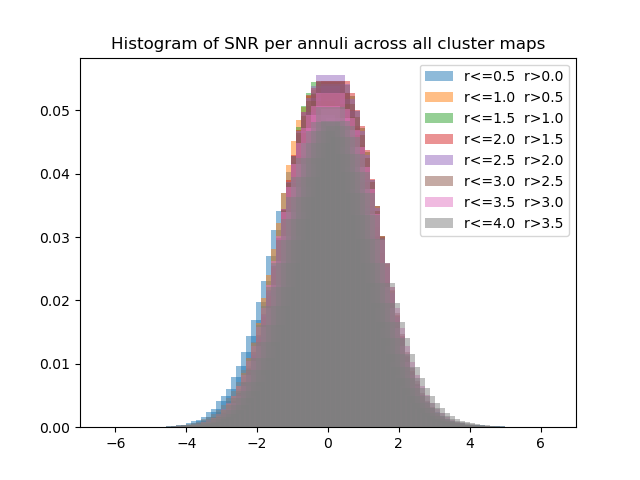
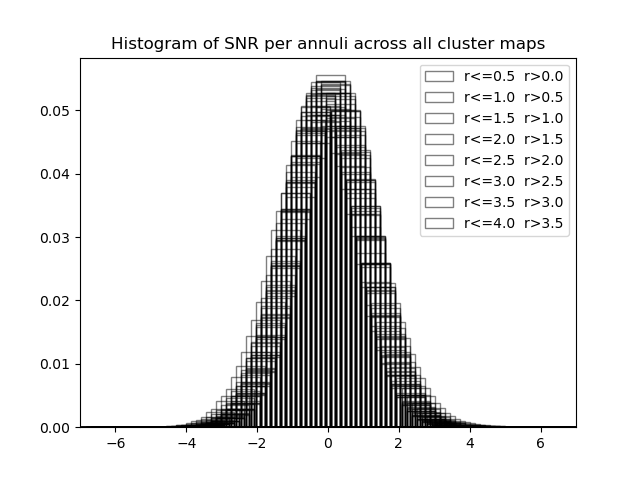
new snr histograms without filling

Changed region(s): [[0.25, 0.1562, 0.7812, 0.9062], [0.6562, 0.125, 0.7188, 0.5]]

diff --git a/snr_all.py b/snr_all.py
@@ -79,7 +79,7 @@ np.savetxt("histo_data.csv",H)
 fig = plt.figure()
 for i in range(len(min_rad)-6):
 	p = opt.minimize(minimize,[np.max(H[i]),0,1],args=(b[1:],H[i])).x
-	plt.bar(b[1:],H[i]/N_pix[i],label="r<="+str(max_rad[i])+"  r>"+str(min_rad[i]),alpha=0.5)
+	plt.bar(b[1:],H[i]/N_pix[i],fill=False,label="r<="+str(max_rad[i])+"  r>"+str(min_rad[i]),alpha=0.5)
 plt.title("Histogram of SNR per annuli across all cluster maps")
 plt.legend()
 plt.xlim(-7,7)
